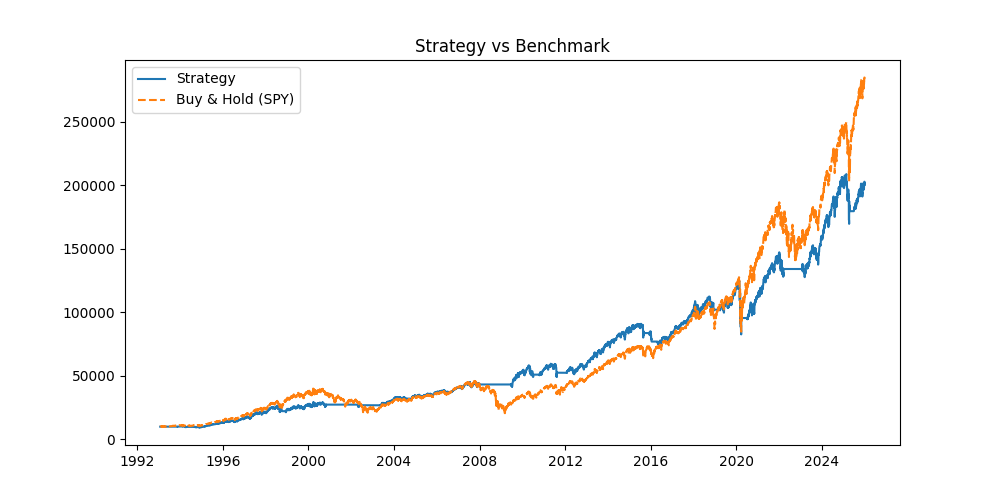
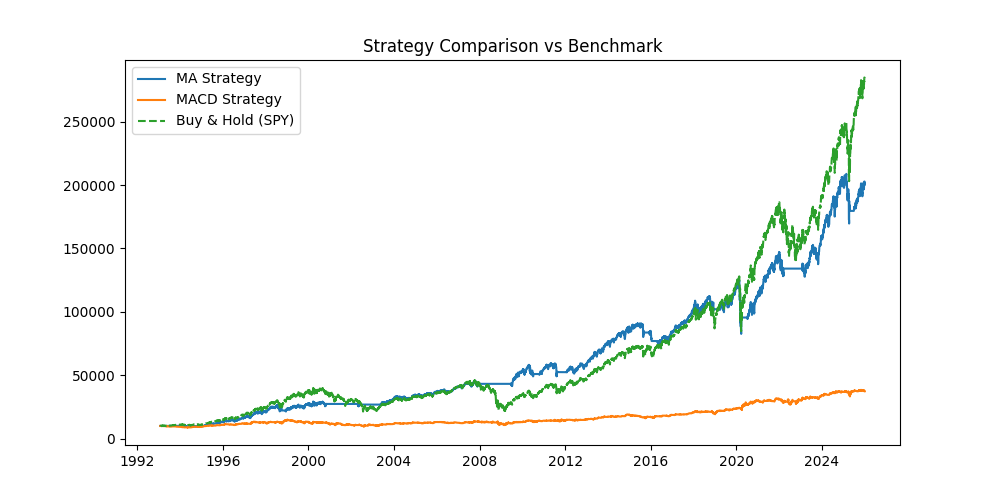
feat: add MACD crossover baseline strategy

diff --git a/main.py b/main.py
@@ -1,5 +1,6 @@
 from data import get_data
 from strategies.moving_average_crossover import moving_average_strategy
+from strategies.macd_crossover import macd_strategy
 from backtester import backtest
 from metrics import Metrics
 
@@ -8,33 +9,38 @@ import matplotlib.pyplot as plt
 # 1. Get data
 data = get_data()
 
-# 2. Apply strategy
-df = moving_average_strategy(data)
+# 2. Apply strategies
+df_ma = moving_average_strategy(data)
+df_macd = macd_strategy(data)
 
 # 3. Backtest
-df = backtest(df)
-
-result = backtest(df)
+result_ma = backtest(df_ma)
+result_macd = backtest(df_macd)
 
 # 4. Metrics
-metrics = Metrics.compute(df)
+metrics_ma = Metrics.compute(result_ma)
+metrics_macd = Metrics.compute(result_macd)
 
-print("Performance:")
-for k, v in metrics.items():
+print("\n=== Moving Average Strategy ===")
+for k, v in metrics_ma.items():
     print(f"{k}: {v:.2f}")
 
-# Normalizar precio del SPY (para compararlo con equity)
-result['benchmark'] = result['Close'] / result['Close'].iloc[0] * 10000
+print("\n=== MACD Strategy ===")
+for k, v in metrics_macd.items():
+    print(f"{k}: {v:.2f}")
 
-# 5. Plot
+# 5. Benchmark (usar uno de los results)
+result_ma['benchmark'] = result_ma['Close'] / result_ma['Close'].iloc[0] * 10000
+
+# 6. Plot
 plt.figure(figsize=(10,5))
 
-plt.plot(result['equity'], label="Strategy")
-plt.plot(result['benchmark'], label="Buy & Hold (SPY)", linestyle='--')
+plt.plot(result_ma['equity'], label="MA Strategy")
+plt.plot(result_macd['equity'], label="MACD Strategy")
+plt.plot(result_ma['benchmark'], label="Buy & Hold (SPY)", linestyle='--')
 
-plt.title("Strategy vs Benchmark")
+plt.title("Strategy Comparison vs Benchmark")
 plt.legend()
 
 plt.savefig("equity_curve.png")
-
 plt.show()

diff --git a/strategies/macd_crossover.py b/strategies/macd_crossover.py
@@ -1,0 +1,23 @@
+import pandas as pd
+
+def macd_strategy(data, fast=12, slow=26, signal_window=9):
+    df = data.copy()
+    
+    # EMAs
+    ema_fast = df['Close'].ewm(span=fast, adjust=False).mean()
+    ema_slow = df['Close'].ewm(span=slow, adjust=False).mean()
+    
+    # MACD y signal line
+    df['macd'] = ema_fast - ema_slow
+    df['signal_line'] = df['macd'].ewm(span=signal_window, adjust=False).mean()
+    
+    # Señal (estado)
+    df['signal'] = 0
+    df.loc[df.index[slow:], 'signal'] = (
+        df['macd'][slow:] > df['signal_line'][slow:]
+    ).astype(int)
+    
+    # Posición (evento de cruce)
+    df['position'] = df['signal'].diff().fillna(0)
+    
+    return df

diff --git a/README.md b/README.md
@@ -54,8 +54,24 @@ This strategy aims to capture medium-to-long term trends by following momentum a
 - Max Drawdown: -0.34  
 - Win Rate: 0.41  
 
+
+## MACD Crossover Strategy (Frast: 12, Slow: 26, Signal: 9)
+
+This strategy is based on the Moving Average Convergence Divergence (MACD) indicator, which measures momentum using the difference between two exponential moving averages.
+
+### Logic
+- A buy signal is generated when the MACD line crosses above the signal line, indicating increasing bullish momentum.
+- A sell signal is generated when the MACD line crosses below the signal line, indicating weakening momentum or potential bearish conditions.
+
+This baseline implementation does not include any trend or volatility filters, making it more sensitive to market noise and prone to false signals during sideways market conditions.
+
+### Performance
+- Total Return: 2.74
+- Sharpe Ratio: 0.42
+- Max Drawdown: -0.38
+- Win Rate: 0.27
+
+
 ### Equity Curve
 
 ![Equity Curve](equity_curve.png)
-
-